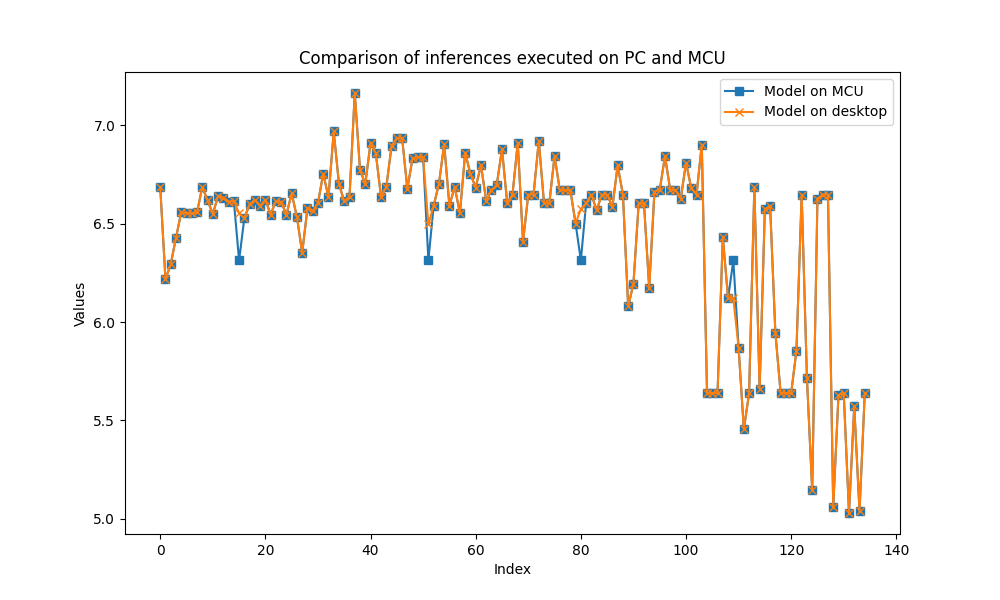
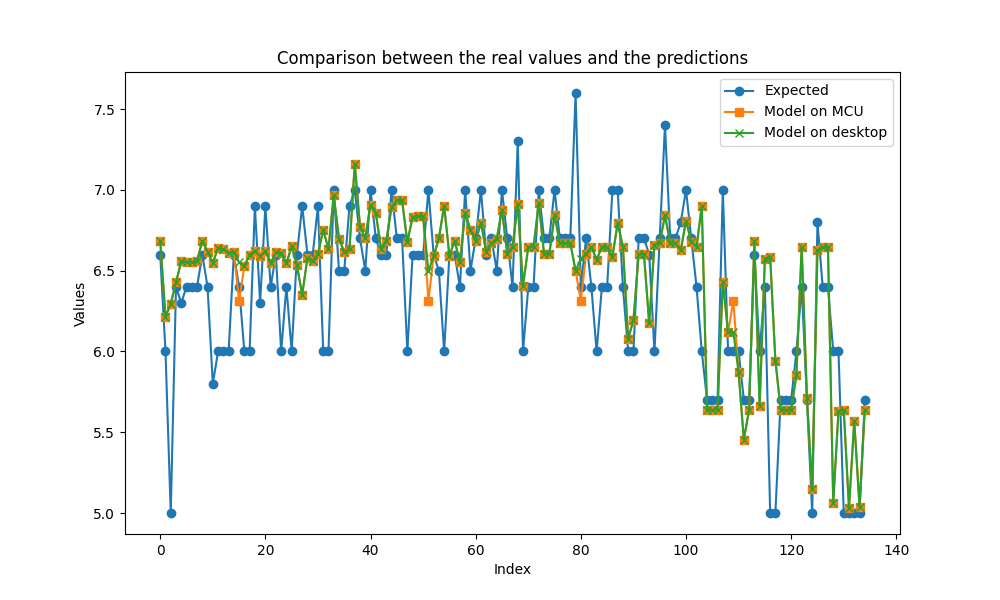
Plot adjustments

diff --git a/Scripts/inferences-comparison.py b/Scripts/inferences-comparison.py
@@ -7,20 +7,20 @@ file_path = 'model_bp5_predictions_embedded.csv'
 data = pd.read_csv(file_path)
 
 # Extract the required columns
-# expected = data['Expected']
+expected = data['Expected']
 model_bp5 = data['model_bp5']
 embedded = data['embedded']
 
 # Plot the results
 plt.figure(figsize=(10, 6))
-# plt.plot(expected, label='Expected', marker='o')
+plt.plot(expected, label='Expected', marker='o')
 plt.plot(embedded, label='Model on MCU', marker='s')
 plt.plot(model_bp5, label='Model on desktop', marker='x')
 
 # Add labels and title
 plt.xlabel('Index')
 plt.ylabel('Values')
-plt.title('Comparison of inferences executed on PC and MCU')
+plt.title('Comparison between the real values and the predictions')
 plt.legend()
 # Save the plot to a file
 plt.savefig('comparison_plot.png')
